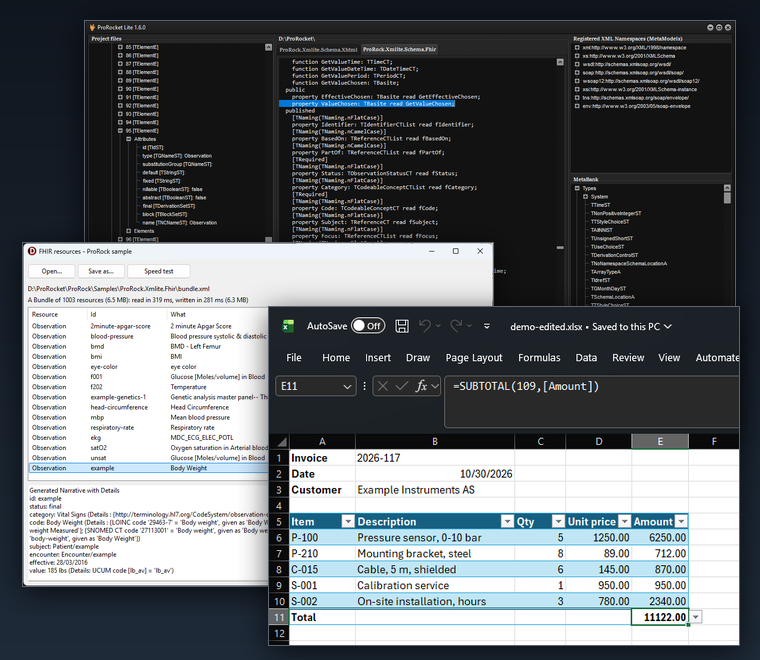
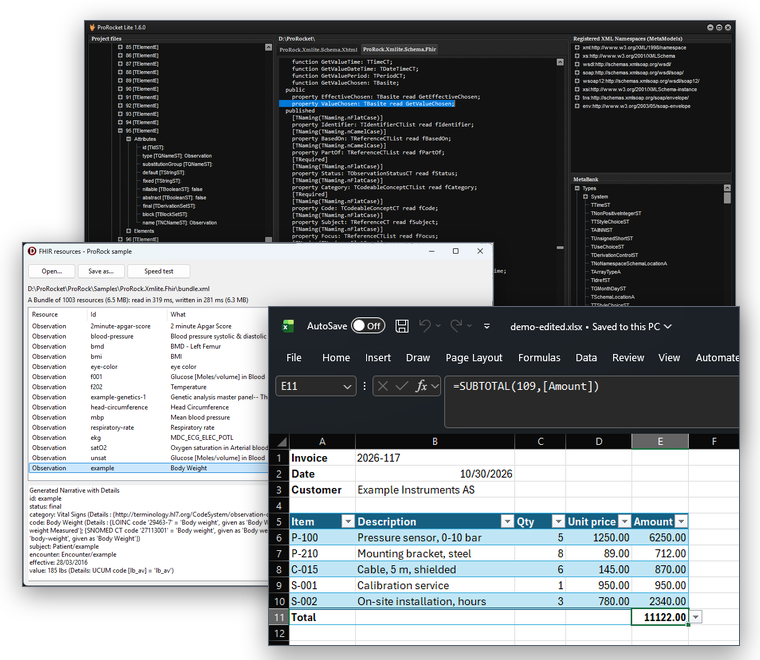
README: the picture transparent and centered

Changed region(s): [[0.0, 0.0, 1.0, 1.0]]

diff --git a/README.md b/README.md
@@ -15,7 +15,7 @@ then have to be found and fixed one by one. With ProRock you regenerate the unit
   it; Excel opens it and recalculates ([sample](https://prorock.rocks/samples/#excel-workbook))
 - **SOAP services** - the EU VIES VAT service, WS-Security, client certificates (quick start below)
 
-![ProRocket Lite with the FHIR R4 schemas generated, the FHIR sample reading a Bundle, and an invoice edited by the Excel sample, opened in Excel with its total recalculated](docs/assets/readme-screens.png)
+<p align="center"><img src="docs/assets/readme-screens.png" alt="ProRocket Lite with the FHIR R4 schemas generated, the FHIR sample reading a Bundle, and an invoice edited by the Excel sample, opened in Excel with its total recalculated"></p>
 
 **Two parts:**
 - **ProRock** - the runtime library: open source (Apache 2.0), pure Delphi source, no dependencies beyond the RTL
